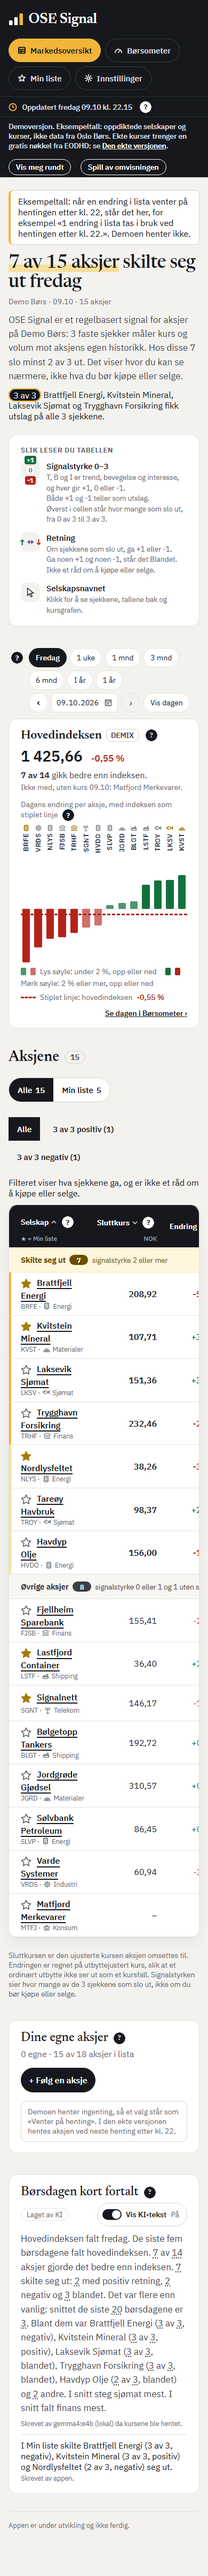
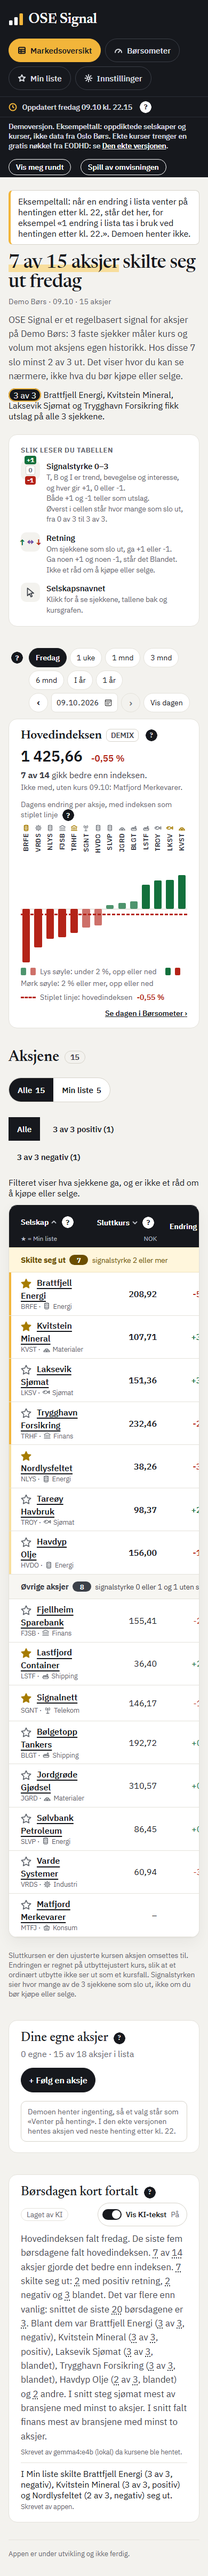
10.11: demoteksten om dagen fra Gemma med dag-3, og bildet av oversikten ved 390 px
Teksten er laget med uv run python src/demo_ki.py --dagen og besto
kontrollen på første forsøk. Tekstene om aksjene står. Avtrykkene bak
bildene er regnet ut på nytt; bare oversikten ved 390 px er ny.

Changed region(s): [[0.0923, 0.9356, 0.8615, 0.9979]]

diff --git a/tests/test_docker.py b/tests/test_docker.py
@@ -1340,7 +1340,10 @@ HOEYDE_PAA_BILDET = 1864
 # Flettingen av main (8.22, del B, og 3.6, del C) inn i 8.25 11.11: avtrykkene er regnet ut paa nytt,
 # og bildene med knappen er tatt paa nytt.
 # Gjennomgangen av «Følg en aksje» i 8.25: _ramme.html. Bildene er byte for byte de samme.
[1 lines of base64/hex data omitted]
+# Story 10.11: «mest av bransjene med minst to aksjer» (ki_dagen.py, hjelpetekster.py og
+# demo_ki_dagen.json fra Gemma). Avtrykkene er regnet ut paa nytt, og bildene er tatt paa nytt; bare
+# oversikten ved 390 px er ny, med samme hoeyde.
[1 lines of base64/hex data omitted]
 SLIK_TAS_BILDET = (
     "Oversikten er endret, så skjermbildet viser noe annet enn demoen. Ta "
     f"{SKJERMBILDET} på nytt etter «Bildet» i spesifikasjonen 3.3b: demobasen i en "
@@ -1792,7 +1795,7 @@ HOEYDE_PAA_AKSJESIDEN = 2258
 # bildene er tatt paa nytt.
 # Flettingen av main (3.6, del C) inn i 8.22 11.11: avtrykkene er regnet ut paa nytt.
 # Story 8.25 og flettingen av main (8.22 og 3.6) inn i 8.25: avtrykkene er regnet ut paa nytt.
[2 lines of base64/hex data omitted]
 SLIK_TAS_AKSJESIDEN = (
     "Aksjesiden er endret, så bildet av den viser noe annet enn demoen. Ta "
     f"{AKSJESIDEBILDET} på nytt med fremgangsmåten i spesifikasjonen 3.3b, mot /aksje/BRFE: "
@@ -2017,21 +2020,23 @@ DE_NYE_BILDENE = {
 # tilbudet om omvisningen besvart, som i 8.25. Aksjesiden og oversikten ved 390 px (4810 px) har Gemma-teksten.
 # Story 10.10, svaret kl. 19:30: ki_dagen.py, ki_eksempel.py og teksten om dagen. Bildene er tatt paa nytt;
 # bare oversikten ved 390 px er ny, med samme hoeyde.
+# Story 10.11: avtrykkene er regnet ut paa nytt (hjelpetekster.py og demo_ki_dagen.json). Bare
+# oversikten ved 390 px er ny; notatene-brfe-390-demo.png er som paa main, som i 10.10.
 AVTRYKK_BAK_DE_NYE_BILDENE = {
[26 lines of base64/hex data omitted]
 }
 SLIK_TAS_DE_NYE_BILDENE = (
     "Siden bak {bildet} er endret, så bildet viser noe annet enn demoen. Ta det på nytt som "
